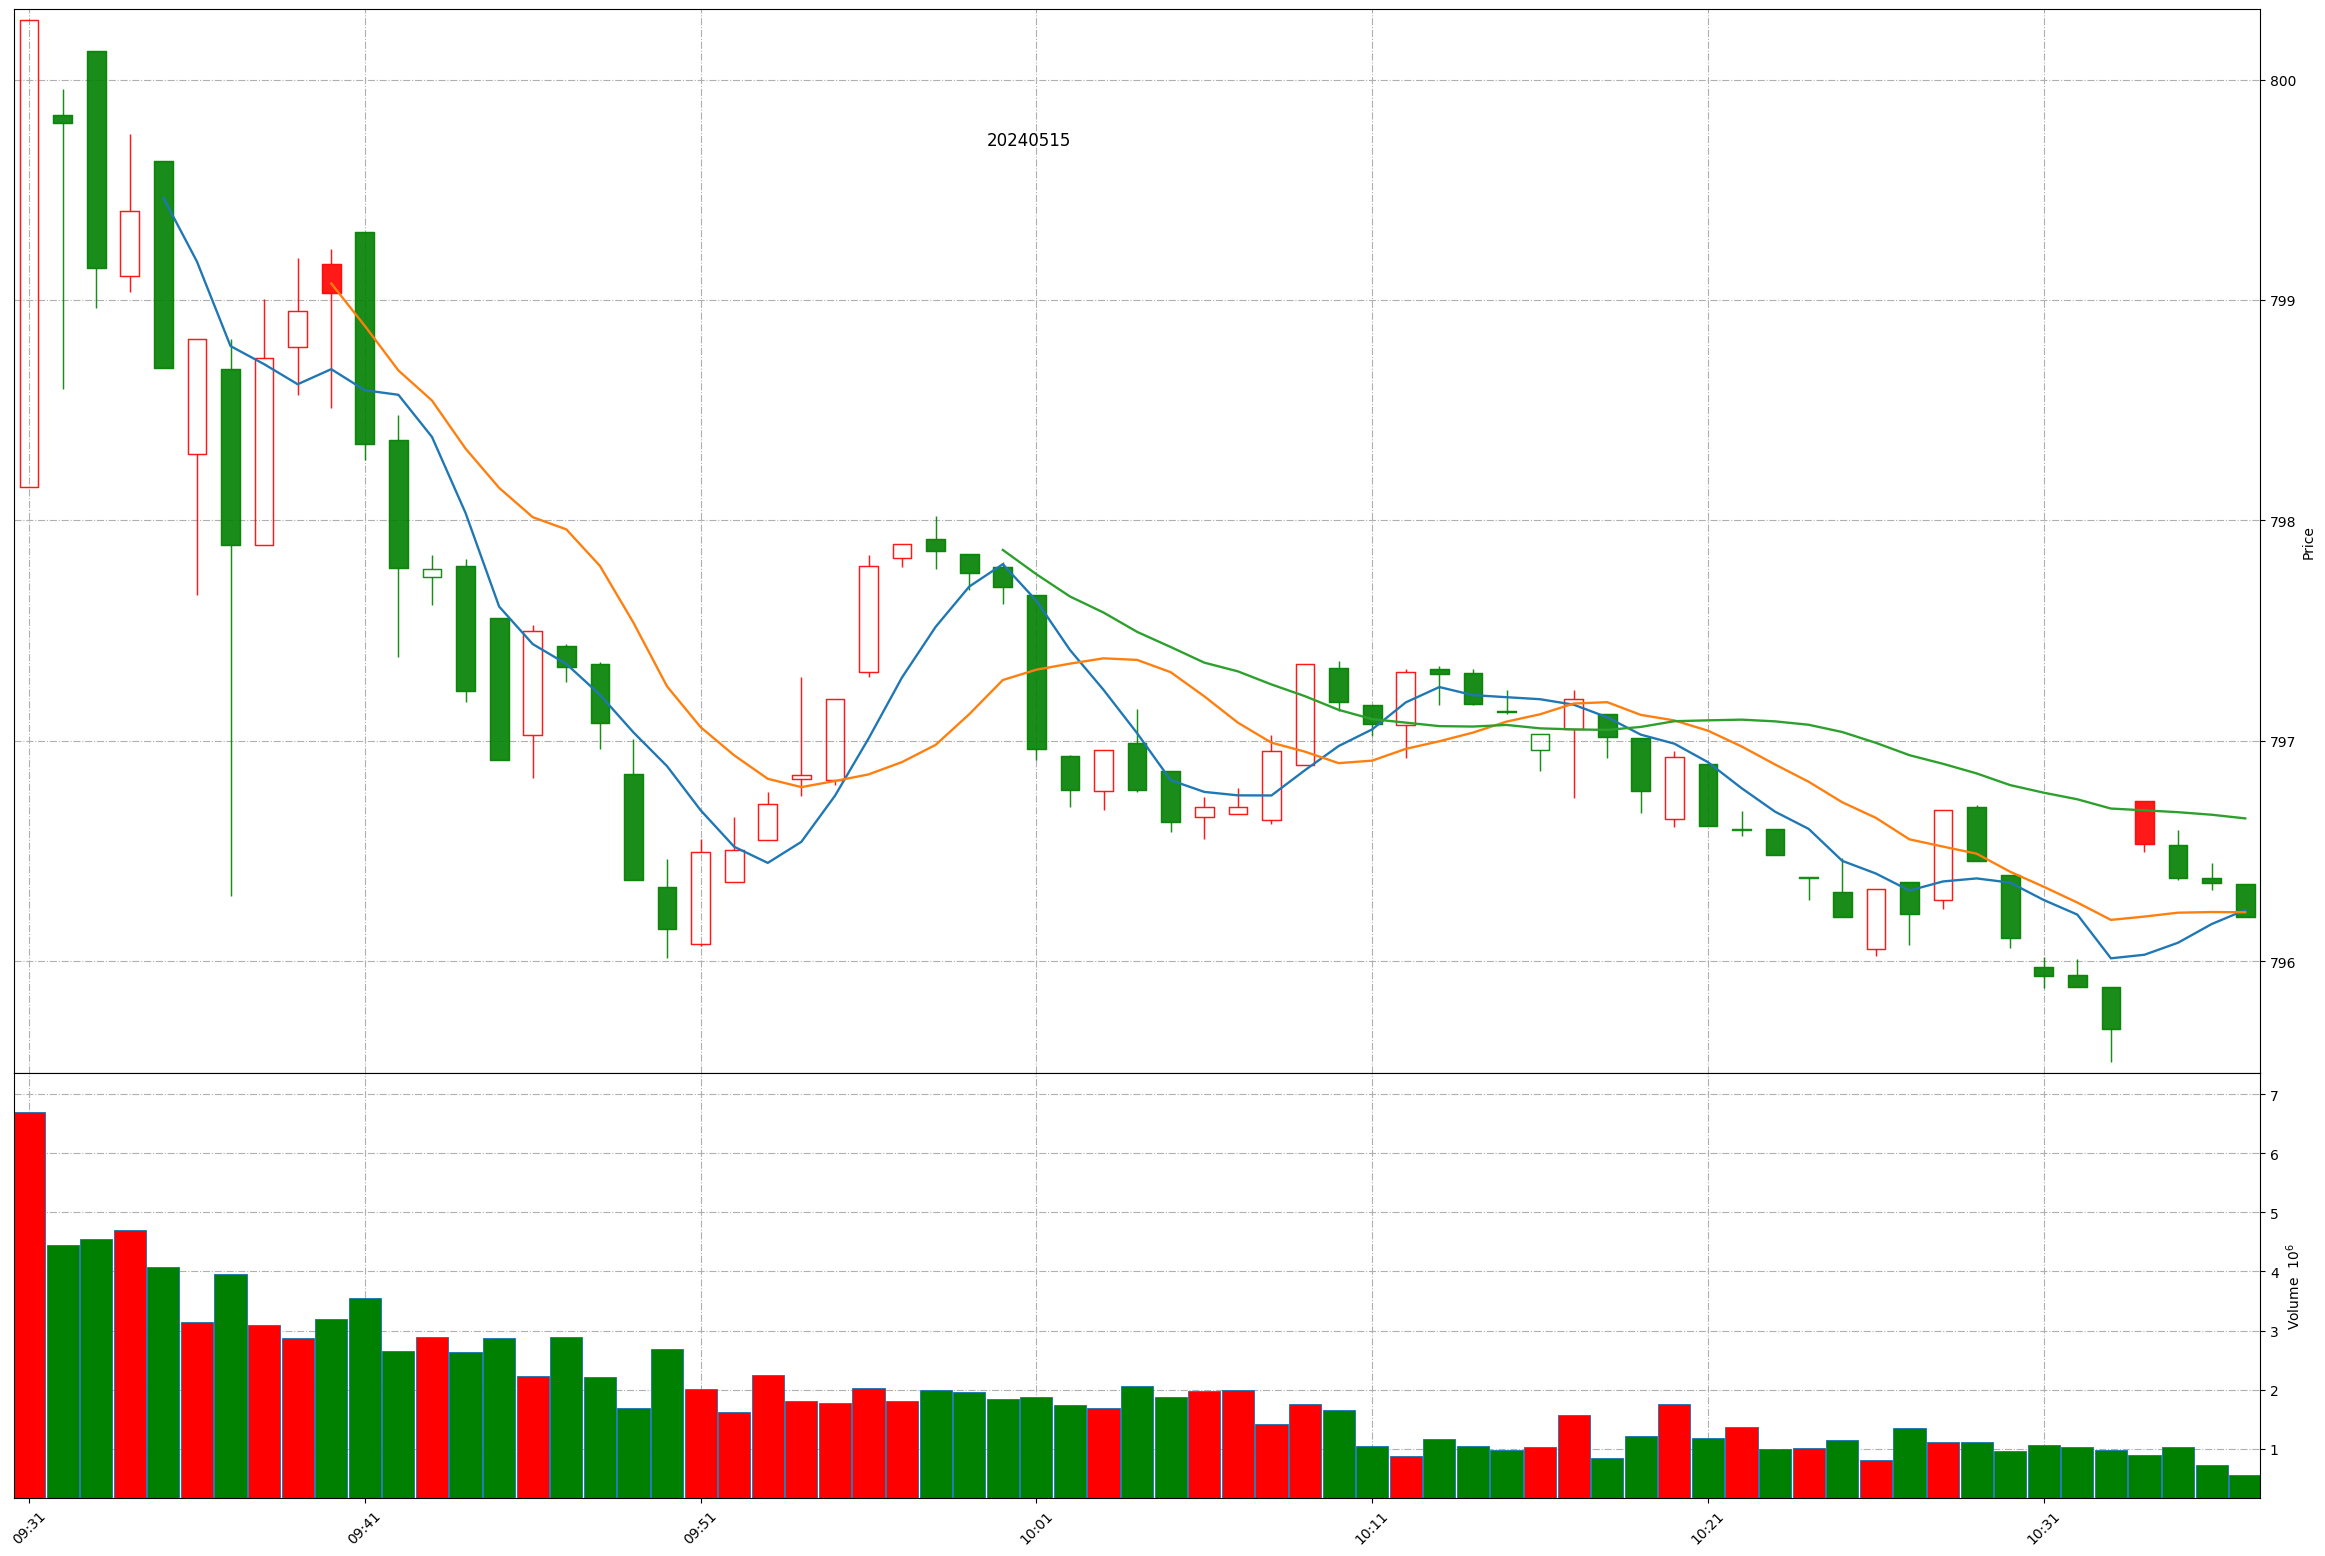
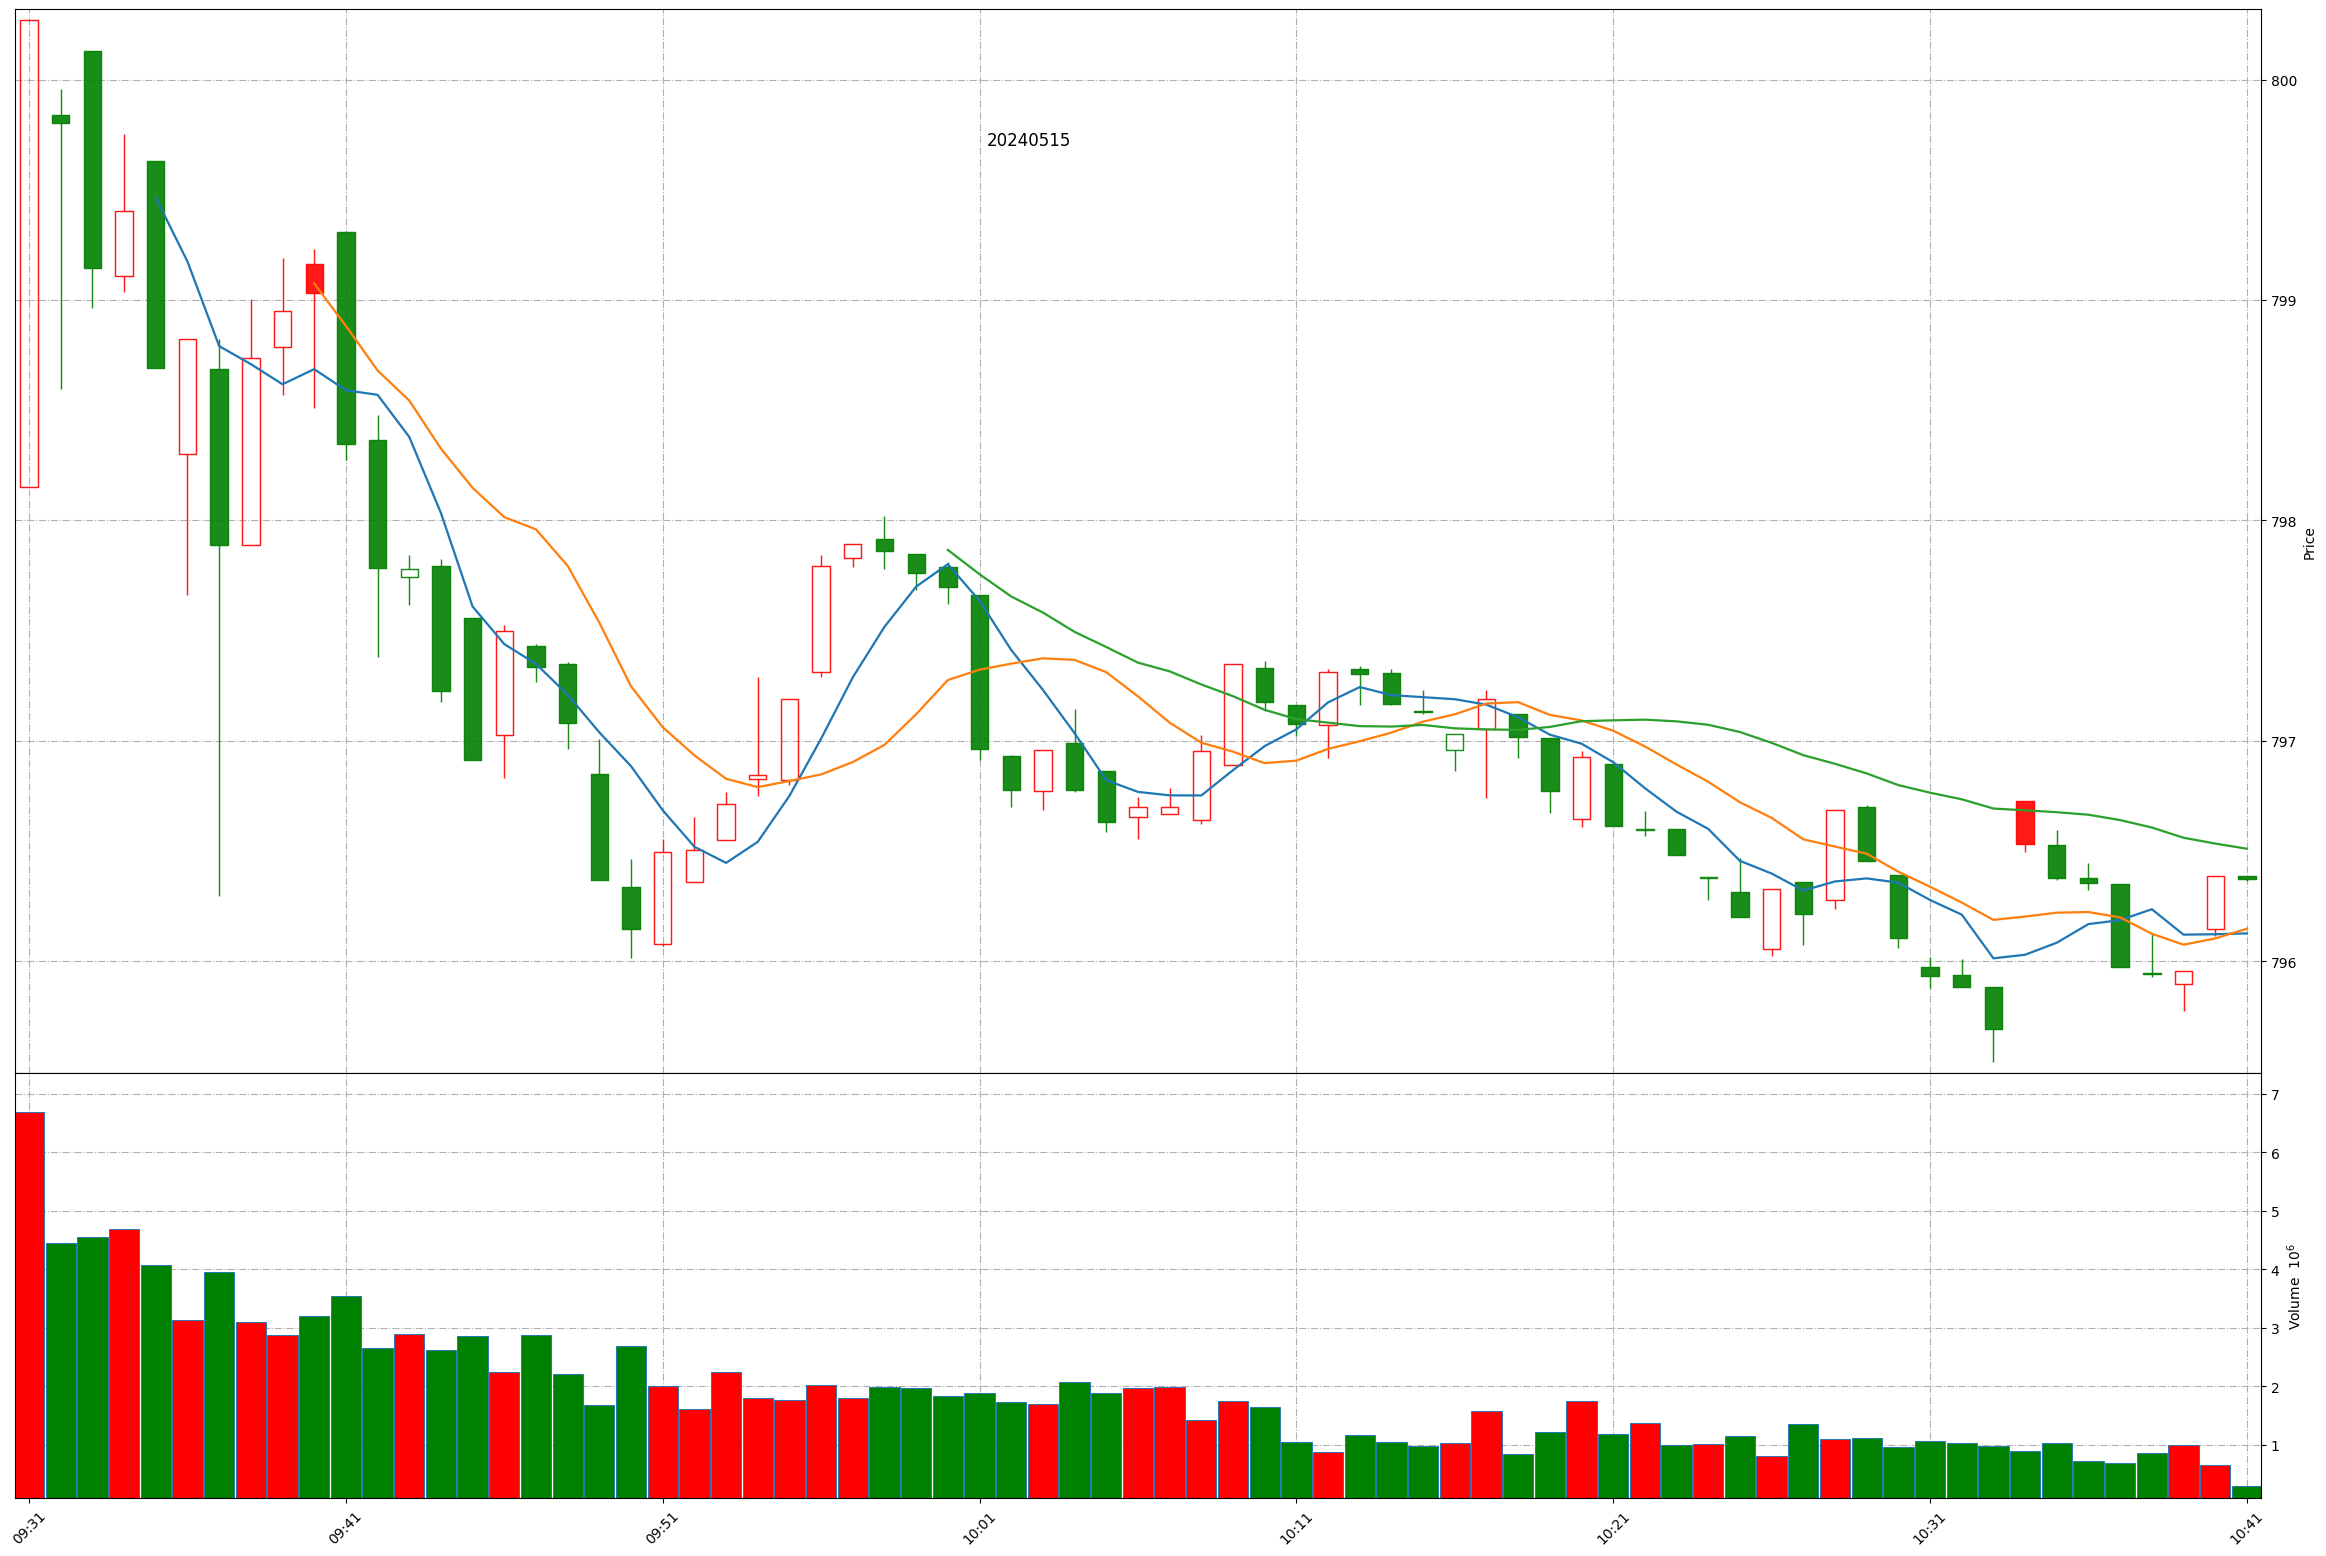
Github action update at 2024-05-15 10:40:29.

Changed region(s): [[0.031, 0.0308, 0.991, 0.6787], [0.031, 0.7712, 0.991, 0.9871]]

diff --git a/README.md b/README.md
@@ -1,11 +1,11 @@
 
 # Daily-A-share-market-quotes 每日 A 股指数（5min 更新）- 20240515
 
-### 上证指数 20240515 10:36
+### 上证指数 20240515 10:40
 ![](./fig/2024/5/20240515-sh000001.png)
 
-### 深证成指 20240515 10:36
+### 深证成指 20240515 10:40
 ![](./fig/2024/5/20240515-sz399001.png)
 
-### 北证50 20240515 10:36
+### 北证50 20240515 10:40
 ![](./fig/2024/5/20240515-bj899050.png)
